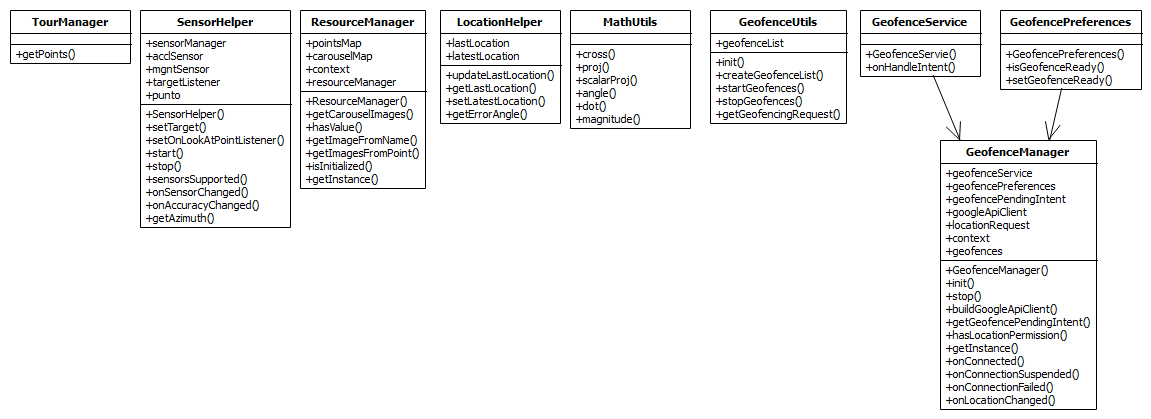
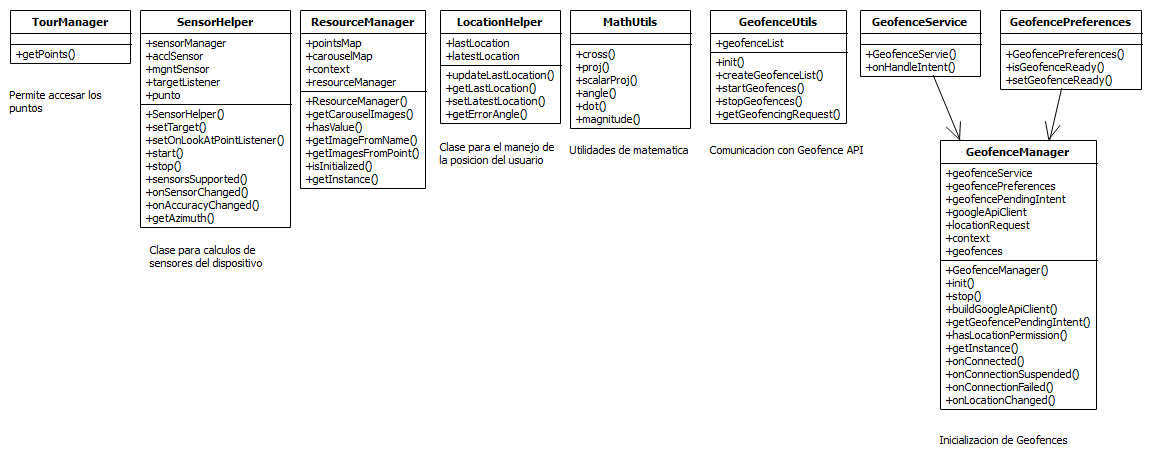
Cambios en documentacion y diagrama de clases

Changed region(s): [[0.0, 0.0, 1.0, 0.9928], [0.0, 0.1862, 0.0912, 0.2482]]

diff --git a/app/src/main/java/com/ucr/fofis/geoapp/Dialog/AudioDialog.java b/app/src/main/java/com/ucr/fofis/geoapp/Dialog/AudioDialog.java
@@ -44,9 +44,9 @@ public class AudioDialog extends Dialog {
         recyclerView.setLayoutManager(new LinearLayoutManager(getContext(), LinearLayoutManager.HORIZONTAL, false));
 
 
-        mediaPlayer = MediaPlayer.create(getContext(), punto.getAudios()[0]);
+        mediaPlayer = MediaPlayer.create(getContext(), punto.getAudios()[0]);//Obtencion de audios
         mediaPlayer.setAudioStreamType(AudioManager.STREAM_MUSIC);
-        mediaPlayer.setLooping(false);
+        mediaPlayer.setLooping(false);//Solo se desea escuchar una vez
 
         setOnDismissListener(new OnDismissListener() {
             @Override
@@ -80,7 +80,7 @@ public class AudioDialog extends Dialog {
             holder.audioText.setText("Audio " + (position + 1));
             holder.mView.setOnClickListener(new View.OnClickListener() {
                 @Override
-                public void onClick(View v) {
+                public void onClick(View v) {//Si se hace click
                     if (mediaPlayer != null) {
                         if(position != lastAudio){
                             lastAudio=position;
@@ -91,10 +91,10 @@ public class AudioDialog extends Dialog {
                             mediaPlayer.start();
                             holder.icon.setImageResource(R.drawable.ic_pause_circle_outline_black_24dp);
                         }else {
-                            if (mediaPlayer.isPlaying()) {
+                            if (mediaPlayer.isPlaying()) {//Si esta sonando se detiene
                                 mediaPlayer.pause();
                                 holder.icon.setImageResource(R.drawable.ic_play_circle_outline_black_24dp);
-                            } else {
+                            } else {//Si no se inicia
                                 mediaPlayer.start();
                                 holder.icon.setImageResource(R.drawable.ic_pause_circle_outline_black_24dp);
                             }

diff --git a/app/src/androidTest/java/com/ucr/fofis/geoapp/RecommendationTest.java b/app/src/androidTest/java/com/ucr/fofis/geoapp/RecommendationTest.java
@@ -81,6 +81,7 @@ public class RecommendationTest {
 
         SystemClock.sleep(3000);
         viewPager2.perform(swipeLeft());
+        SystemClock.sleep(3000);
 
         ViewInteraction relativeLayout2 = onView(
                 allOf(withId(R.id.exit),
@@ -95,11 +96,7 @@ public class RecommendationTest {
                         isDisplayed()));
         appCompatButton2.perform(click());
 
-        try {
-            Thread.sleep(100);
-        } catch (InterruptedException e) {
-            e.printStackTrace();
-        }
+        SystemClock.sleep(3000);
 
         ViewInteraction imageView3 = onView(
                 allOf(withId(R.id.recommendation_fragment_image),
@@ -115,6 +112,7 @@ public class RecommendationTest {
                                 withParent(withId(R.id.recommendation_dialog)))),
                         isDisplayed()));
         viewPager8.perform(swipeLeft());
+        SystemClock.sleep(3000);
 
         ViewInteraction relativeLayout3 = onView(
                 allOf(withId(R.id.exit),

diff --git a/app/src/androidTest/java/com/ucr/fofis/geoapp/IntroductionSoundTest.java b/app/src/androidTest/java/com/ucr/fofis/geoapp/IntroductionSoundTest.java
@@ -33,7 +33,6 @@ public class IntroductionSoundTest {
 
     @Test
     public void mainActivity_soundTest() {
-        try {
 
             SystemClock.sleep(3000);
 
@@ -43,7 +42,6 @@ public class IntroductionSoundTest {
                             withParent(withId(R.id.toolbar)),
                             isDisplayed()));
             appCompatImageButton.perform(click());
-            Thread.sleep(1000);
 
             SystemClock.sleep(3000);
 
@@ -53,9 +51,6 @@ public class IntroductionSoundTest {
             assertTrue(mActivityTestRule.getActivity().introMediaPlayer.isPlaying());
 
             SystemClock.sleep(3000);
-        }catch(InterruptedException e){
-
-        }
     }
 
 }

diff --git a/app/src/main/java/com/ucr/fofis/geoapp/Dialog/GifDialog.java b/app/src/main/java/com/ucr/fofis/geoapp/Dialog/GifDialog.java
@@ -13,6 +13,7 @@ import pl.droidsonroids.gif.GifImageView;
 
 /**
  * Created by oscar on 04/06/17.
+ * Dialogo que permite mostrar animaciones de un punto.
  */
 
 public class GifDialog extends Dialog {
@@ -30,6 +31,7 @@ public class GifDialog extends Dialog {
     protected void onCreate(Bundle savedInstanceState) {
         super.onCreate(savedInstanceState);
         setContentView(R.layout.gif_dialog);
+        //Se obtiene la animacion y se reproduce
         punto = (Punto) AfterCameraActivity.getInstance().getIntent().getSerializableExtra("punto");
         gifImageView = (GifImageView) findViewById(R.id.gif_image_view);
         gifImageView.setImageResource(punto.getAnimationId());

diff --git a/app/src/main/java/com/ucr/fofis/geoapp/Dialog/VideoDialog.java b/app/src/main/java/com/ucr/fofis/geoapp/Dialog/VideoDialog.java
@@ -12,6 +12,7 @@ import com.ucr.fofis.geoapp.R;
 
 /**
  * Created by william on 08/06/17.
+ * Dialogo que maneja el despliegue de videos.
  */
 
 public class VideoDialog extends Dialog {
@@ -34,6 +35,7 @@ public class VideoDialog extends Dialog {
         setContentView(R.layout.video_dialog);
         setTitle(p.getNombre());
 
+        //Se obtiene el video y se reproduce
         vidVw = (VideoView) findViewById(R.id.video_view);
         vidVw.setVideoPath("android.resource://com.ucr.fofis.geoapp/"+p.getVideoId());
         vidVw.requestFocus();

diff --git a/app/src/main/java/com/ucr/fofis/geoapp/CameraActivity.java b/app/src/main/java/com/ucr/fofis/geoapp/CameraActivity.java
@@ -23,6 +23,10 @@ import com.ucr.fofis.dataaccess.entity.Punto;
 
 import static com.ucr.fofis.geoapp.R.id.btnStart;
 
+/*
+    Actividad que muestra la camara y todos los elementos relacionados a la misma.
+ */
+
 public class CameraActivity extends AppCompatActivity implements OnLookAtTargetListener {
     public static final String POINT_TAG = "POINT_TAG";
     double[] J = new double[]{0, 1, 0};

diff --git a/app/src/main/java/com/ucr/fofis/geoapp/Dialog/GalleryDialog.java b/app/src/main/java/com/ucr/fofis/geoapp/Dialog/GalleryDialog.java
@@ -18,6 +18,10 @@ import com.ucr.fofis.dataaccess.entity.Punto;
 import com.ucr.fofis.geoapp.AfterCameraActivity;
 import com.ucr.fofis.geoapp.R;
 
+/**
+ * Dialogo que permite mostrar imagenes de un punto.
+ *
+ */
 
 public class GalleryDialog  extends DialogFragment {
     public FloatingActionButton fab;
